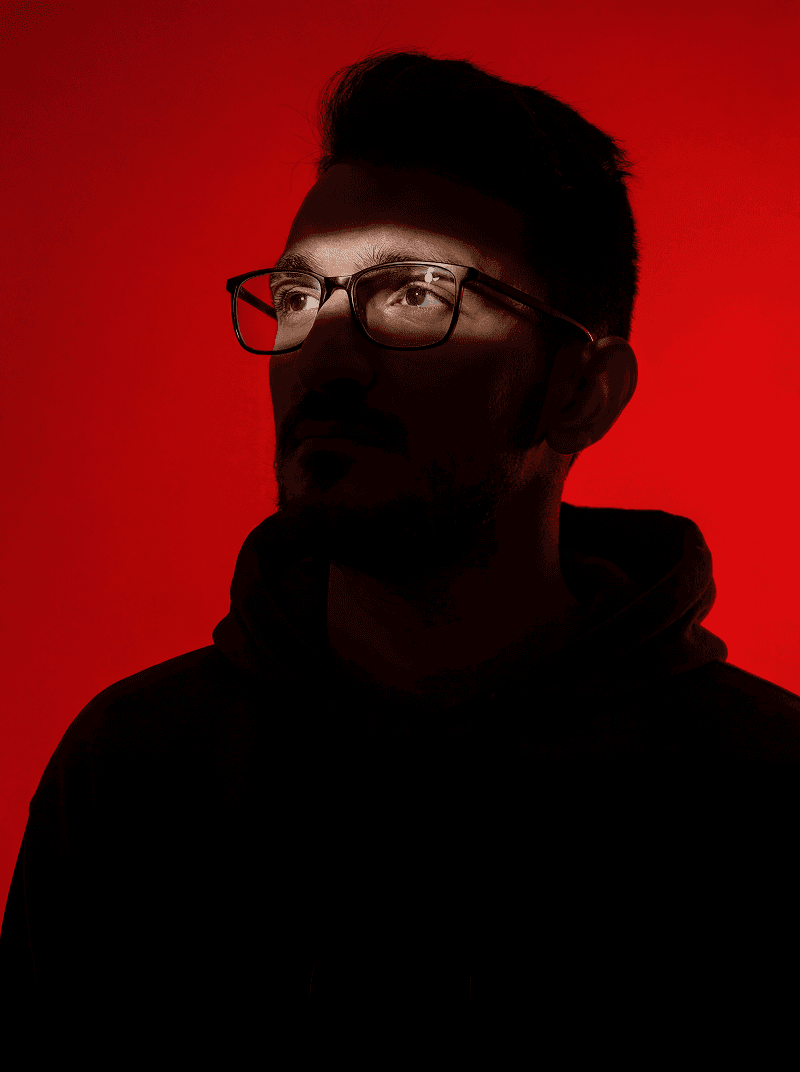
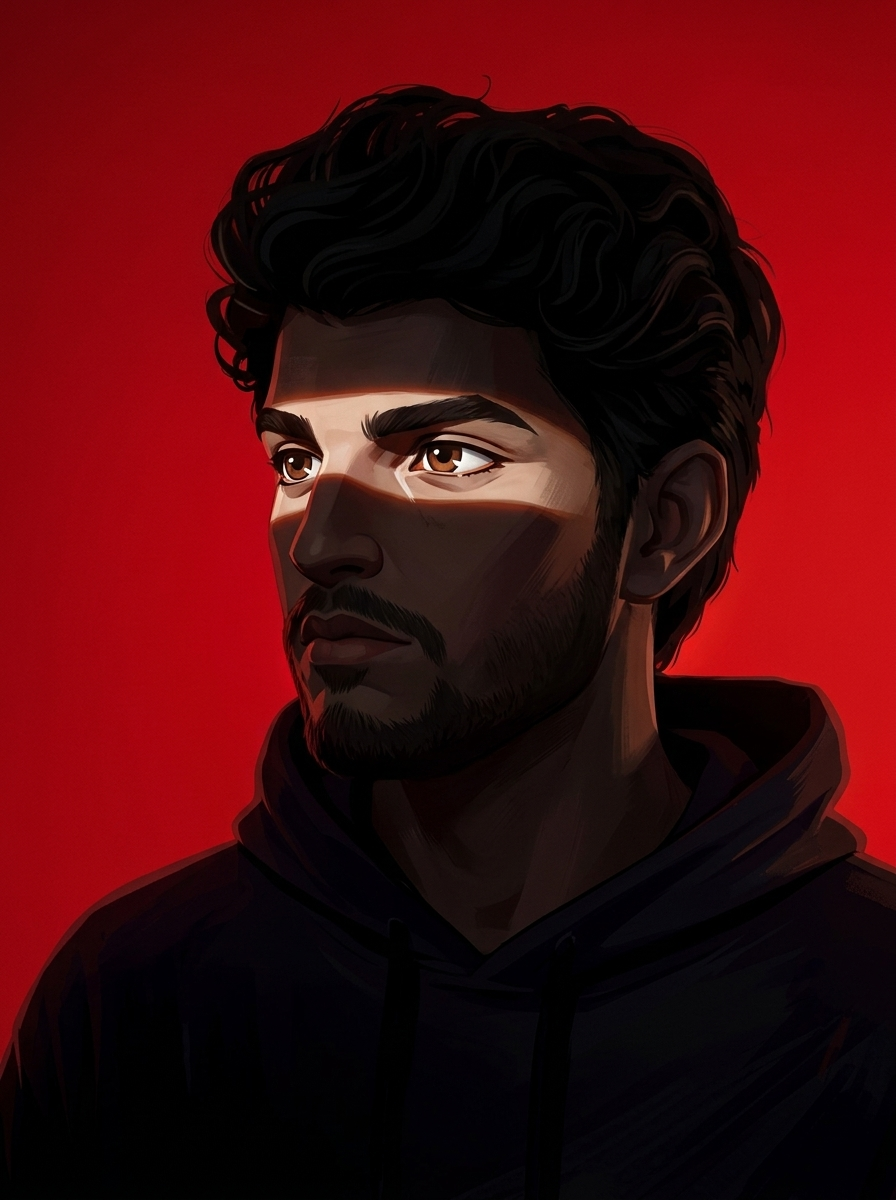
updated the image

diff --git a/src/components/HeroAndBio.tsx b/src/components/HeroAndBio.tsx
@@ -225,7 +225,7 @@ export const HeroAndBio: React.FC = () => {
             }}
           >
             <img
-              src="/images/portrait.png"
+              src="/images/portrait-animated.gif"
               alt="Portrait of Rehan"
               className="w-full h-full object-cover object-center"
               loading="eager"
